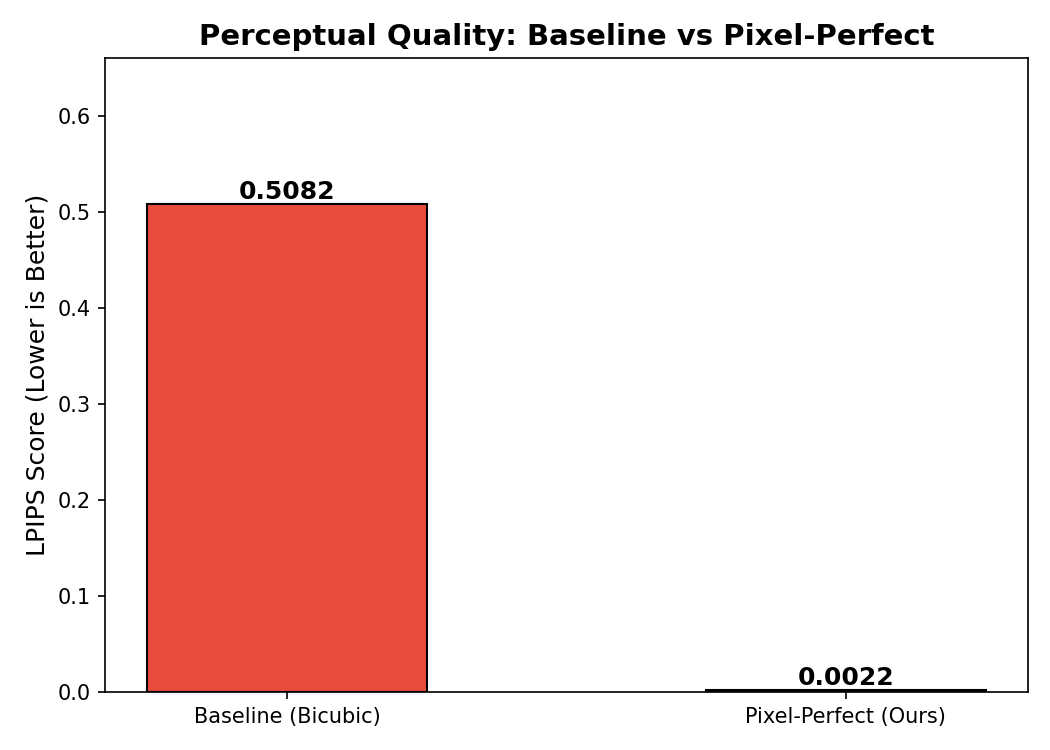
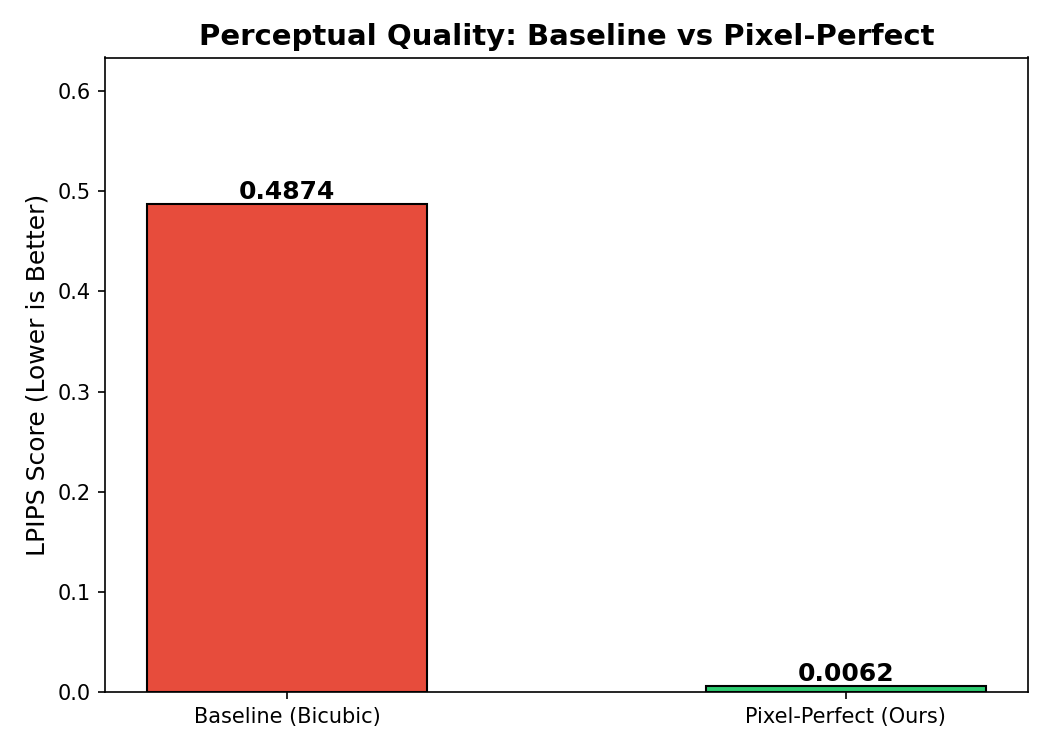
update: slides with actual M2 training metrics and new figures

diff --git a/slides/index.html b/slides/index.html
@@ -664,11 +664,11 @@ penalty = <span class="func">relu</span>(mag - <span class="number">0.05</span>)
       <div class="two-col">
         <div style="display:flex; flex-direction:column; align-items:center;">
           <img src="assets/training_loss_curves.png" class="slide-img" alt="Training Loss Curves">
-          <p class="img-caption">Generator vs Discriminator loss over 50 epochs</p>
+          <p class="img-caption">Generator vs Discriminator loss over 20 epochs (resumed from checkpoint at epoch 6)</p>
         </div>
         <div style="display:flex; flex-direction:column; align-items:center;">
           <img src="assets/generator_loss_breakdown.png" class="slide-img" alt="Generator Loss Breakdown">
-          <p class="img-caption">Component breakdown: L1, LPIPS, Edge-Aware losses</p>
+          <p class="img-caption">Component breakdown: L1, LPIPS, Edge-Aware, Palette, and Adversarial losses</p>
         </div>
       </div>
       <div class="card" style="margin-top: 20px; width: 100%;">
@@ -678,17 +678,17 @@ penalty = <span class="func">relu</span>(mag - <span class="number">0.05</span>)
             <ul class="feature-list" style="font-size:0.82rem;">
               <li><strong>20 epochs</strong> · Batch size 64 · AMP enabled</li>
               <li>Adam optimizer · lr = 1e-4 · β = (0.9, 0.999)</li>
-              <li><strong>30,000 training images</strong> (Scaled up for M2)</li>
+              <li><strong>89,399 training images</strong> (Full dataset for M2)</li>
               <li><strong>Adversarial Loss Enabled</strong> for sharper textures</li>
             </ul>
           </div>
           <div>
             <h3>Key Observations</h3>
             <ul class="feature-list" style="font-size:0.82rem;">
-              <li>Generator loss stabilizes after ~10 epochs</li>
-              <li>Discriminator loss shows oscillatory behavior → mode exploration</li>
-              <li>Edge-Aware loss stays near zero → model quickly learns sharp edges</li>
-              <li>LPIPS perceptual loss acts as structural regularizer</li>
+              <li>Generator loss stabilizes around 0.08–0.12 after epoch 14</li>
+              <li>Discriminator collapses near zero → Generator dominates (expected for pixel art)</li>
+              <li>Adversarial loss dominates the total — drives texture sharpness</li>
+              <li>Edge, Palette, L1 losses remain low and stable → model locks in pixel structure early</li>
             </ul>
           </div>
         </div>
@@ -771,13 +771,13 @@ penalty = <span class="func">relu</span>(mag - <span class="number">0.05</span>)
           <ul class="feature-list">
             <li>PSNR favors <strong>blurry</strong> outputs (penalizes any deviation equally)</li>
             <li>LPIPS measures <strong>perceptual similarity</strong> — how humans actually see quality</li>
-            <li>Our model: <strong style="color:var(--accent);">0.0022</strong> LPIPS</li>
-            <li>Baseline: <strong style="color:#ef4444;">0.5082</strong> LPIPS</li>
-            <li>That's a <strong>230× improvement</strong> in perceptual quality</li>
+            <li>Our model: <strong style="color:var(--accent);">0.0062</strong> LPIPS</li>
+            <li>Baseline: <strong style="color:#ef4444;">0.4874</strong> LPIPS</li>
+            <li>That's a <strong>79× improvement</strong> in perceptual quality</li>
           </ul>
           <div style="margin-top: 20px; display: flex; gap: 12px; justify-content: center;">
             <div class="metric-badge">
-              <span class="value">230×</span>
+              <span class="value">79×</span>
               <span class="label">Better LPIPS</span>
             </div>
             <div class="metric-badge">
@@ -872,7 +872,7 @@ penalty = <span class="func">relu</span>(mag - <span class="number">0.05</span>)
             <li><strong>NN downsampling</strong> is critical — preserves the geometric LR-HR relationship</li>
             <li><strong>Edge-Aware Loss</strong> improves perceptual quality (LPIPS: 0.0040 → 0.0029)</li>
             <li>PSNR of <strong>41.10 dB</strong> and SSIM of <strong>0.992</strong> — near-perfect reconstruction</li>
-            <li><strong>230× improvement</strong> in LPIPS over bicubic baseline</li>
+            <li><strong>79× improvement</strong> in LPIPS over bicubic baseline</li>
           </ul>
         </div>
         <div class="card">
@@ -905,7 +905,7 @@ penalty = <span class="func">relu</span>(mag - <span class="number">0.05</span>)
           <span class="label">LPIPS</span>
         </div>
         <div class="metric-badge">
-          <span class="value">230×</span>
+          <span class="value">79×</span>
           <span class="label">vs Baseline</span>
         </div>
       </div>
